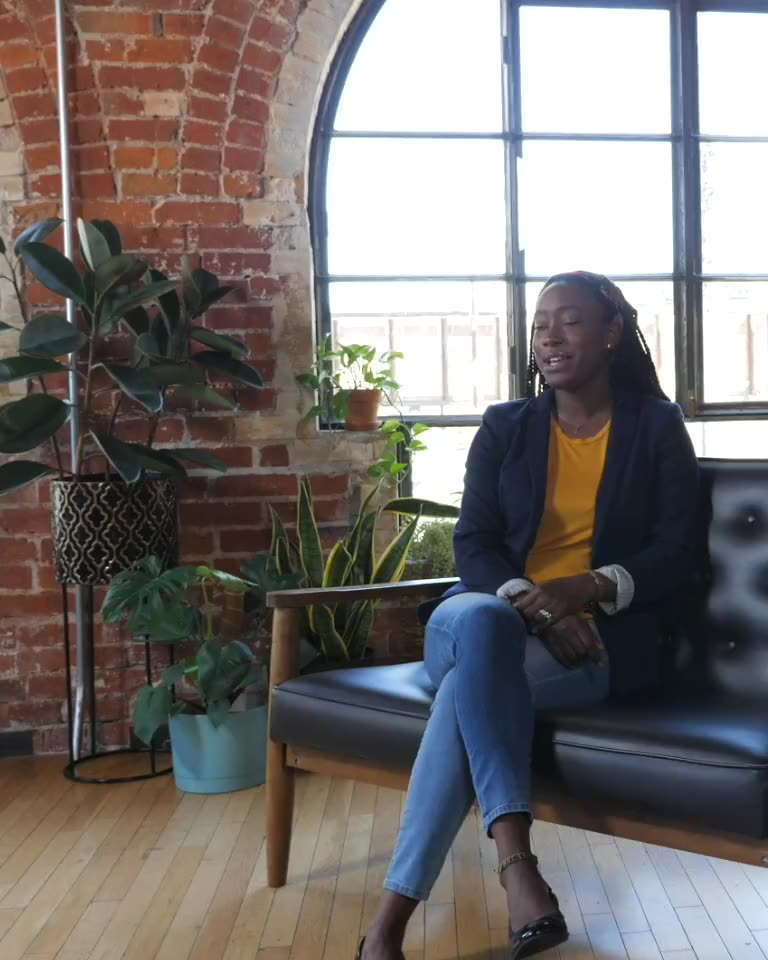
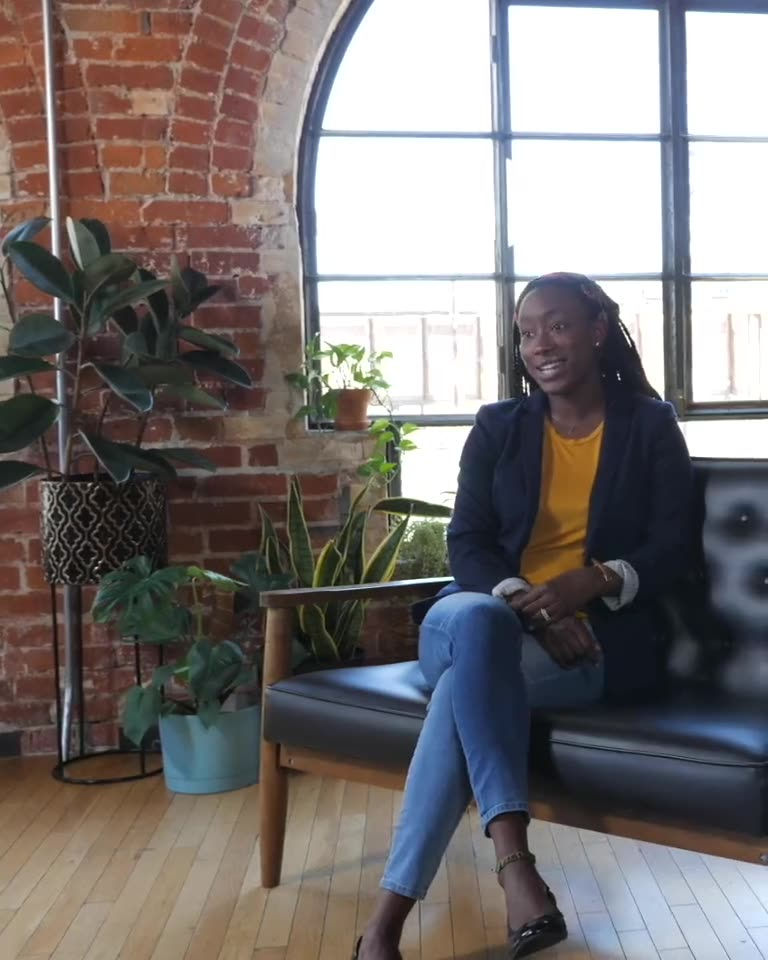
Mobile hero: stop opening on a blink, and let the form's examples be read
**The narrow poster moves from frame one to frame 17.** The loop opens on the
subject mid-blink, eyes down, mid-sentence: a tenth of a second that is
invisible in motion and unforgiving as a photograph. Frame 17 is the same shot
two thirds of a second later, eyes open, mid-smile.

The old rule said the poster had to be frame one or the hero jump-cuts. That
was true when the still was *hidden* the moment the video said `canplay` — a
hard swap, where any difference shows. The black-hero fix changed the
mechanism: the loop now lies over the still and fades in across 0.6s once a
frame has genuinely painted, so a difference reads as a dissolve. The poster
is free to be the best frame rather than the first one, and it needed to be,
because Low Power Mode blocks autoplay outright. On a phone running low that
still is not a placeholder, it is the hero, permanently.

The video is untouched: same 663 KB, same encode. Only the still changed.

**The contact form's examples become a hint instead of a placeholder.** "Who
needs to see this?" is a single-line input showing about 316px of text on a
390px phone, and the example line measures 673px — two thirds of it was never
read by the people most likely to need it. As a hint it wraps, and it stays
put once they start typing rather than vanishing at the first keystroke.

New examples reach past enrollment and patients to a launch: "Families
touring campus, patients choosing care, a city meeting your new space."
[…]

diff --git a/index.html b/index.html
@@ -51,13 +51,17 @@
          data-hero-video="/public/video/heroloop.mp4?v=7"
          data-hero-poster="/public/video/hero-poster.jpg?v=6"
          data-hero-video-narrow="/public/video/heroloop-mobile.mp4?v=2"
-         data-hero-poster-narrow="/public/video/heroloop-mobile-poster.jpg?v=2">
+         data-hero-poster-narrow="/public/video/heroloop-mobile-poster.jpg?v=3">
       <picture>
-        <!-- The narrow poster is frame one of the narrow loop, so promoting
-             to video is not a cut. Regenerate it whenever the loop changes,
-             and bump both ?v= together — Pages cannot send cache headers, so
-             the query string is the only thing that expires either file. -->
-        <source media="(max-width: 767px)" srcset="/public/video/heroloop-mobile-poster.jpg?v=2">
+        <!-- The narrow poster is frame 17 of the narrow loop, not frame one:
+             the loop opens on the subject mid-blink, looking down, and that
+             still is what every phone in Low Power Mode shows permanently.
+             It no longer has to match frame one, because the loop now fades
+             in OVER the still rather than replacing it, so any difference
+             reads as a dissolve instead of a cut. Bump ?v= here and in
+             data-hero-poster-narrow together — Pages cannot send cache
+             headers, so the query string is the only thing that expires it. -->
+        <source media="(max-width: 767px)" srcset="/public/video/heroloop-mobile-poster.jpg?v=3">
         <img src="/public/video/hero-poster.jpg?v=6" alt="" aria-hidden="true">
       </picture>
     </div>
@@ -240,7 +244,6 @@
           <li class="step"><span class="step__n">3</span><h3>You see the cut.</h3><p>Your film in 14 business days, revisions included.</p></li>
           <li class="step"><span class="step__n">4</span><h3>It opens doors.</h3><p>A film built to recruit, raise money, sell, and be shared for years.</p></li>
         </ol>
-        <p class="experience__close reveal" data-delay="3">Clients talk about the films. They also talk about how effective we made it.</p>
       </div>
 
       <div class="offerhead">

diff --git a/contact.html b/contact.html
@@ -123,7 +123,13 @@
             </div>
             <div class="field">
               <label for="audience">Who needs to see this?</label>
-              <input type="text" id="audience" name="audience" placeholder="Families considering enrollment, prospective patients, donors…" required>
+              <input type="text" id="audience" name="audience" required>
+              <!-- The examples are a hint, not a placeholder. A single-line
+                   input shows about 316px of text on a 390px phone and this
+                   line measures 673px, so as a placeholder two thirds of it
+                   was never read by the people most likely to need it. A hint
+                   wraps, and it stays put once they start typing. -->
+              <span class="field__hint">Families touring campus, patients choosing care, a city meeting your new space.</span>
               <span class="field__error">Please tell us who the audience is.</span>
             </div>
             <div class="field">

diff --git a/css/site.css b/css/site.css
@@ -1481,10 +1481,6 @@ img[src$="-white.png"], img[src$="-transparent.png"] { filter: invert(1); }
 }
 .step h3 { font-size: var(--step-0); margin: 0 0 0.35rem; font-weight: 600; }
 .step p { margin: 0; color: var(--bone-soft); font-size: var(--step--1); }
-.experience__close {
-  margin-top: clamp(1.75rem, 3vw, 2.5rem); color: var(--bone-faint);
-  font-size: var(--step--1); max-width: 46ch;
-}
 .offerhead { margin-bottom: clamp(1.5rem, 3vw, 2.25rem); }
 /* The AI line answers a question buyers now arrive with. It is deliberately
    quiet: raising it louder than the offer would make it the subject. */

diff --git a/ASSETS.md b/ASSETS.md
@@ -172,16 +172,33 @@ Figures are the first 72 hours after posting. The run sold out.
 | File | Used at | Notes |
 | --- | --- | --- |
 | `public/video/hero-poster.jpg` | 768px and up | 1920x1080. Also the poster the wide loop mounts over. |
-| `public/video/heroloop-mobile-poster.jpg` | below 768px | 768x960, frame one of the narrow loop. Regenerate it whenever the loop changes. |
+| `public/video/heroloop-mobile-poster.jpg` | below 768px | 768x960, **frame 17** of the narrow loop. Regenerate it whenever the loop changes, and pick the frame by eye. |
 
 Swapped with a `<picture>` `source`, not JavaScript, so the browser only ever
 downloads the one it needs.
 
-The narrow poster is frame one of the narrow loop on purpose. Anything else
-means the hero visibly jump-cuts the moment the video reaches `canplay`, on
-every single mobile load. It is also what the `<video>` element carries as its
-own `poster`, so the still, the video's poster and the video's first frame are
-all the same image and the promotion is invisible.
+**The narrow poster used to be frame one, and no longer is.** That rule was
+written when the still was *hidden* the moment the video said `canplay`: a
+hard swap, where any difference between the two images is a visible jump cut
+on every mobile load. Matching them was the only way to hide the seam.
+
+The black-hero fix changed the mechanism. The loop now sits *over* the still
+and fades in across 0.6s once a frame has actually been presented, so a
+difference between the two reads as a dissolve rather than a cut. The poster
+is free to be the best frame in the loop instead of whichever one happens to
+be first.
+
+It needed to be. The narrow loop opens on the subject mid-blink, eyes down,
+mid-sentence — a tenth of a second that is invisible in motion and unforgiving
+as a photograph. And a photograph is exactly what it is on any phone that
+declines to play the video: **Low Power Mode blocks autoplay outright**, so
+that frame is the permanent hero for anyone running low on battery, which on a
+phone is most people by the evening. Frame 17 is the same shot about
+two-thirds of a second later, eyes open, mid-smile.
+
+Pick the replacement by eye whenever the loop is recut, and remember the
+`<video>` element's own `poster` attribute is now decorative: the element is
+at `opacity: 0` until it has painted, so nothing it carries is ever seen.
 
 ## Hero loops
 

diff --git a/OFFER.md b/OFFER.md
@@ -29,7 +29,6 @@ House style: **no em dashes in new copy.** Client quotes are never restyled.
 | Step 2 | **We handle the day.** Crew, lighting, sound, releases, schedule. You show up and speak. |
 | Step 3 | **You see the cut.** Your film in 14 business days, revisions included. |
 | Step 4 | **It opens doors.** A film built to recruit, raise money, sell, and be shared for years. |
-| Closing | Clients talk about the films. They also talk about how effective we made it. |
 
 ### Section header
 
